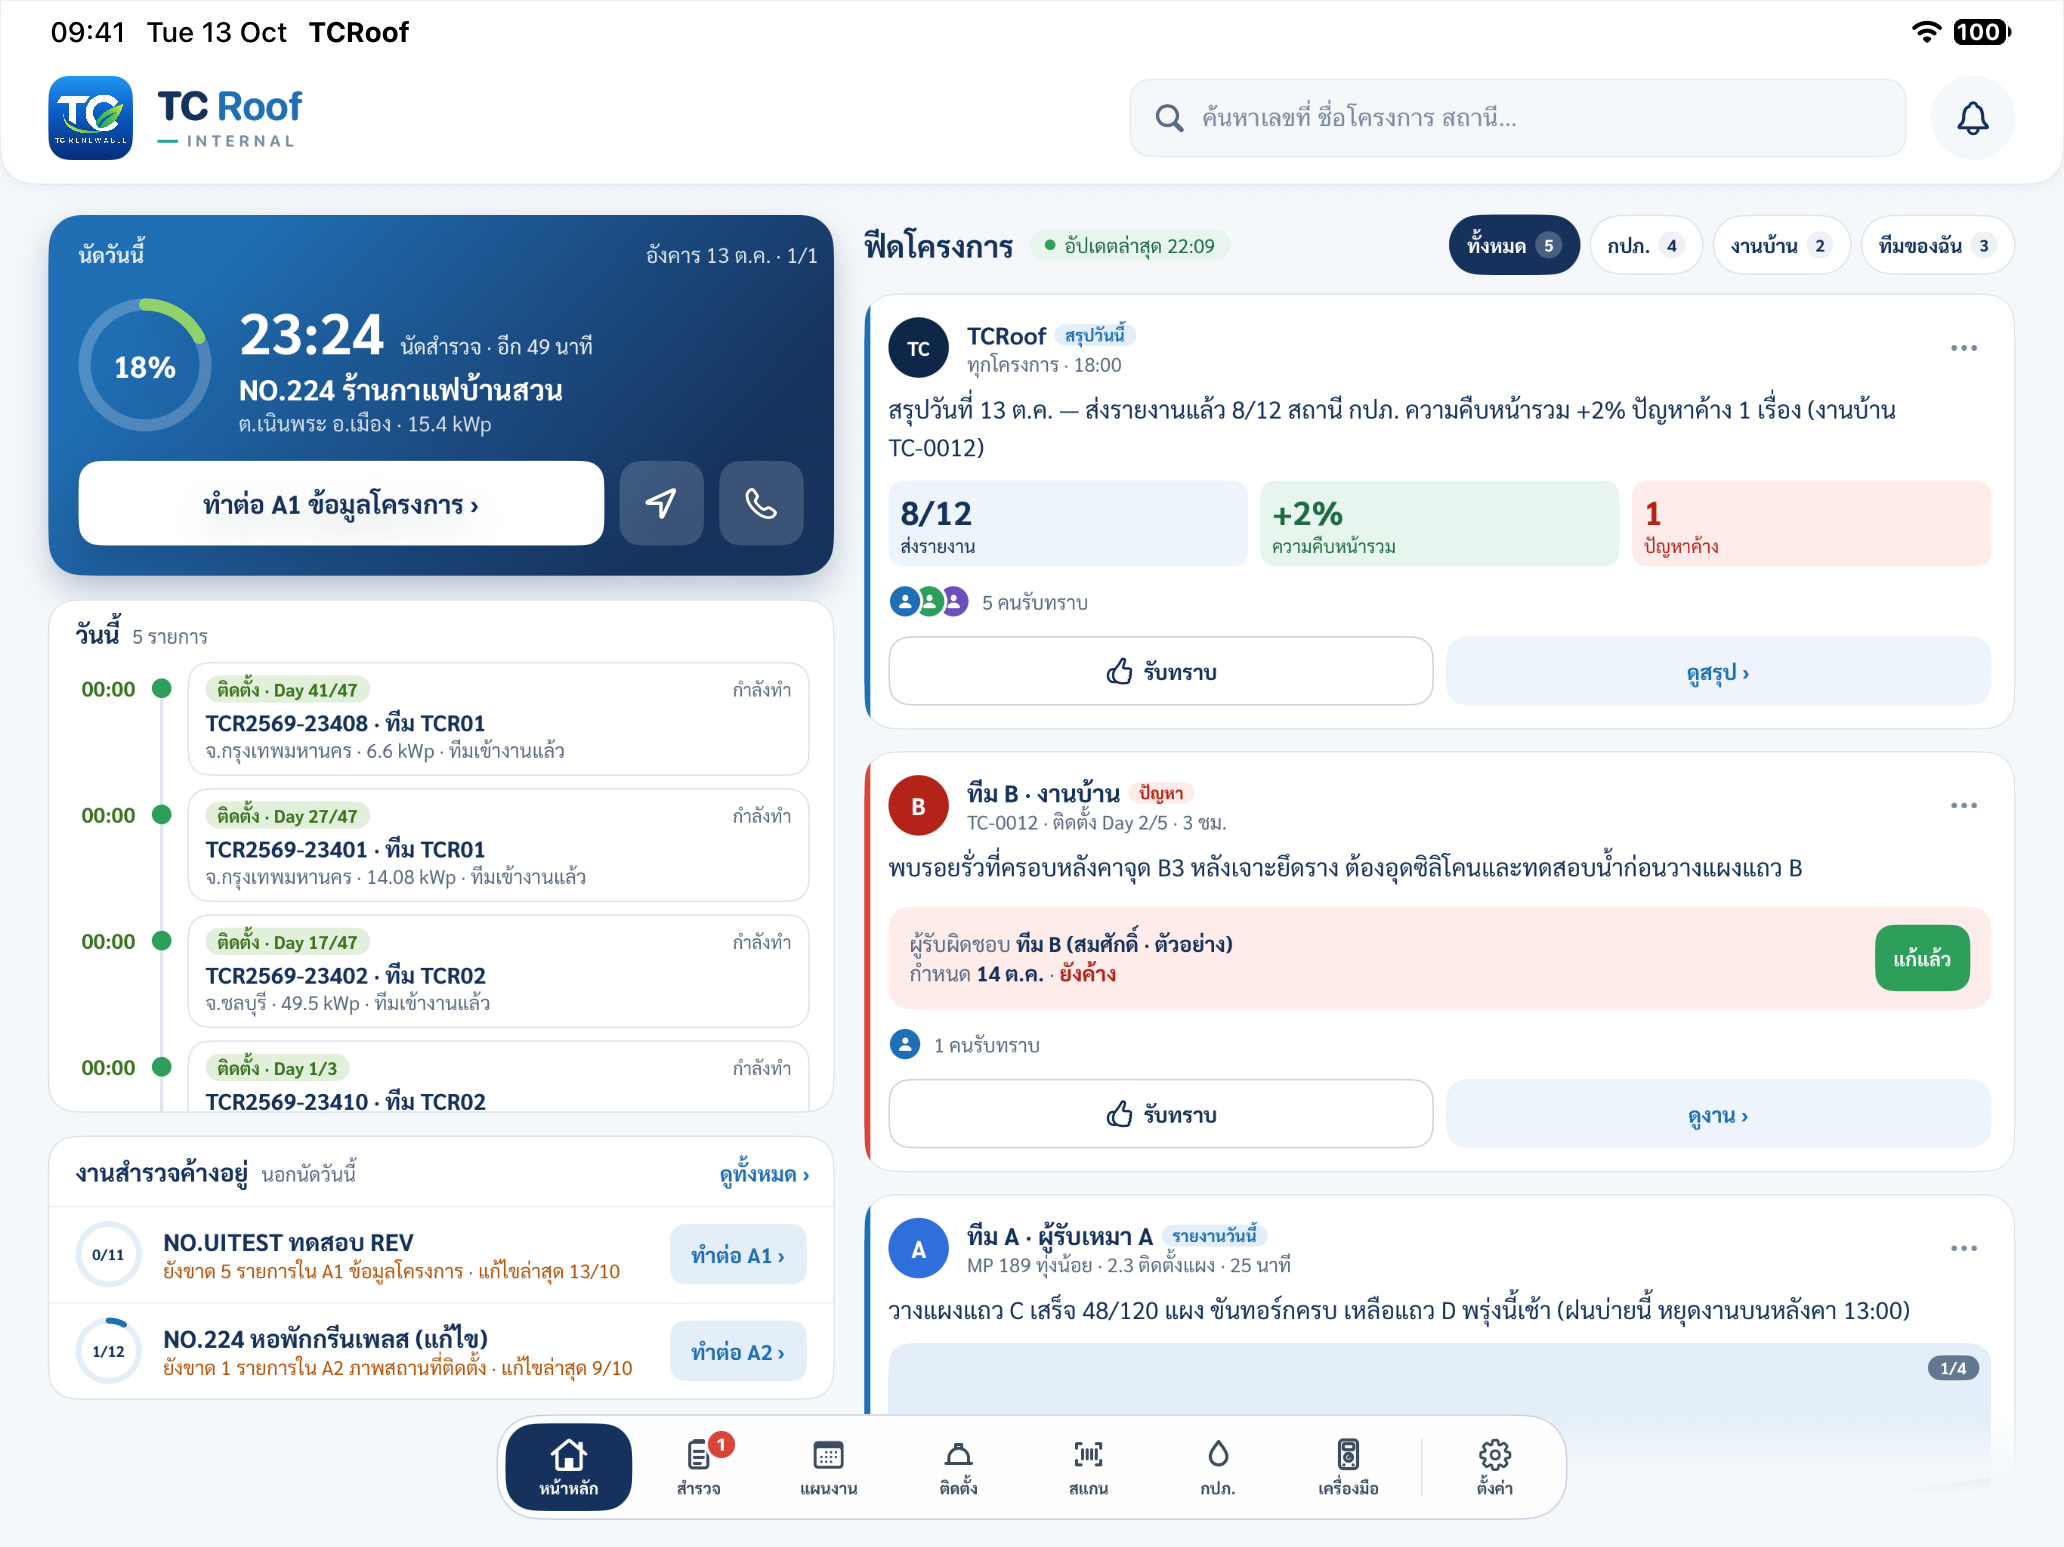
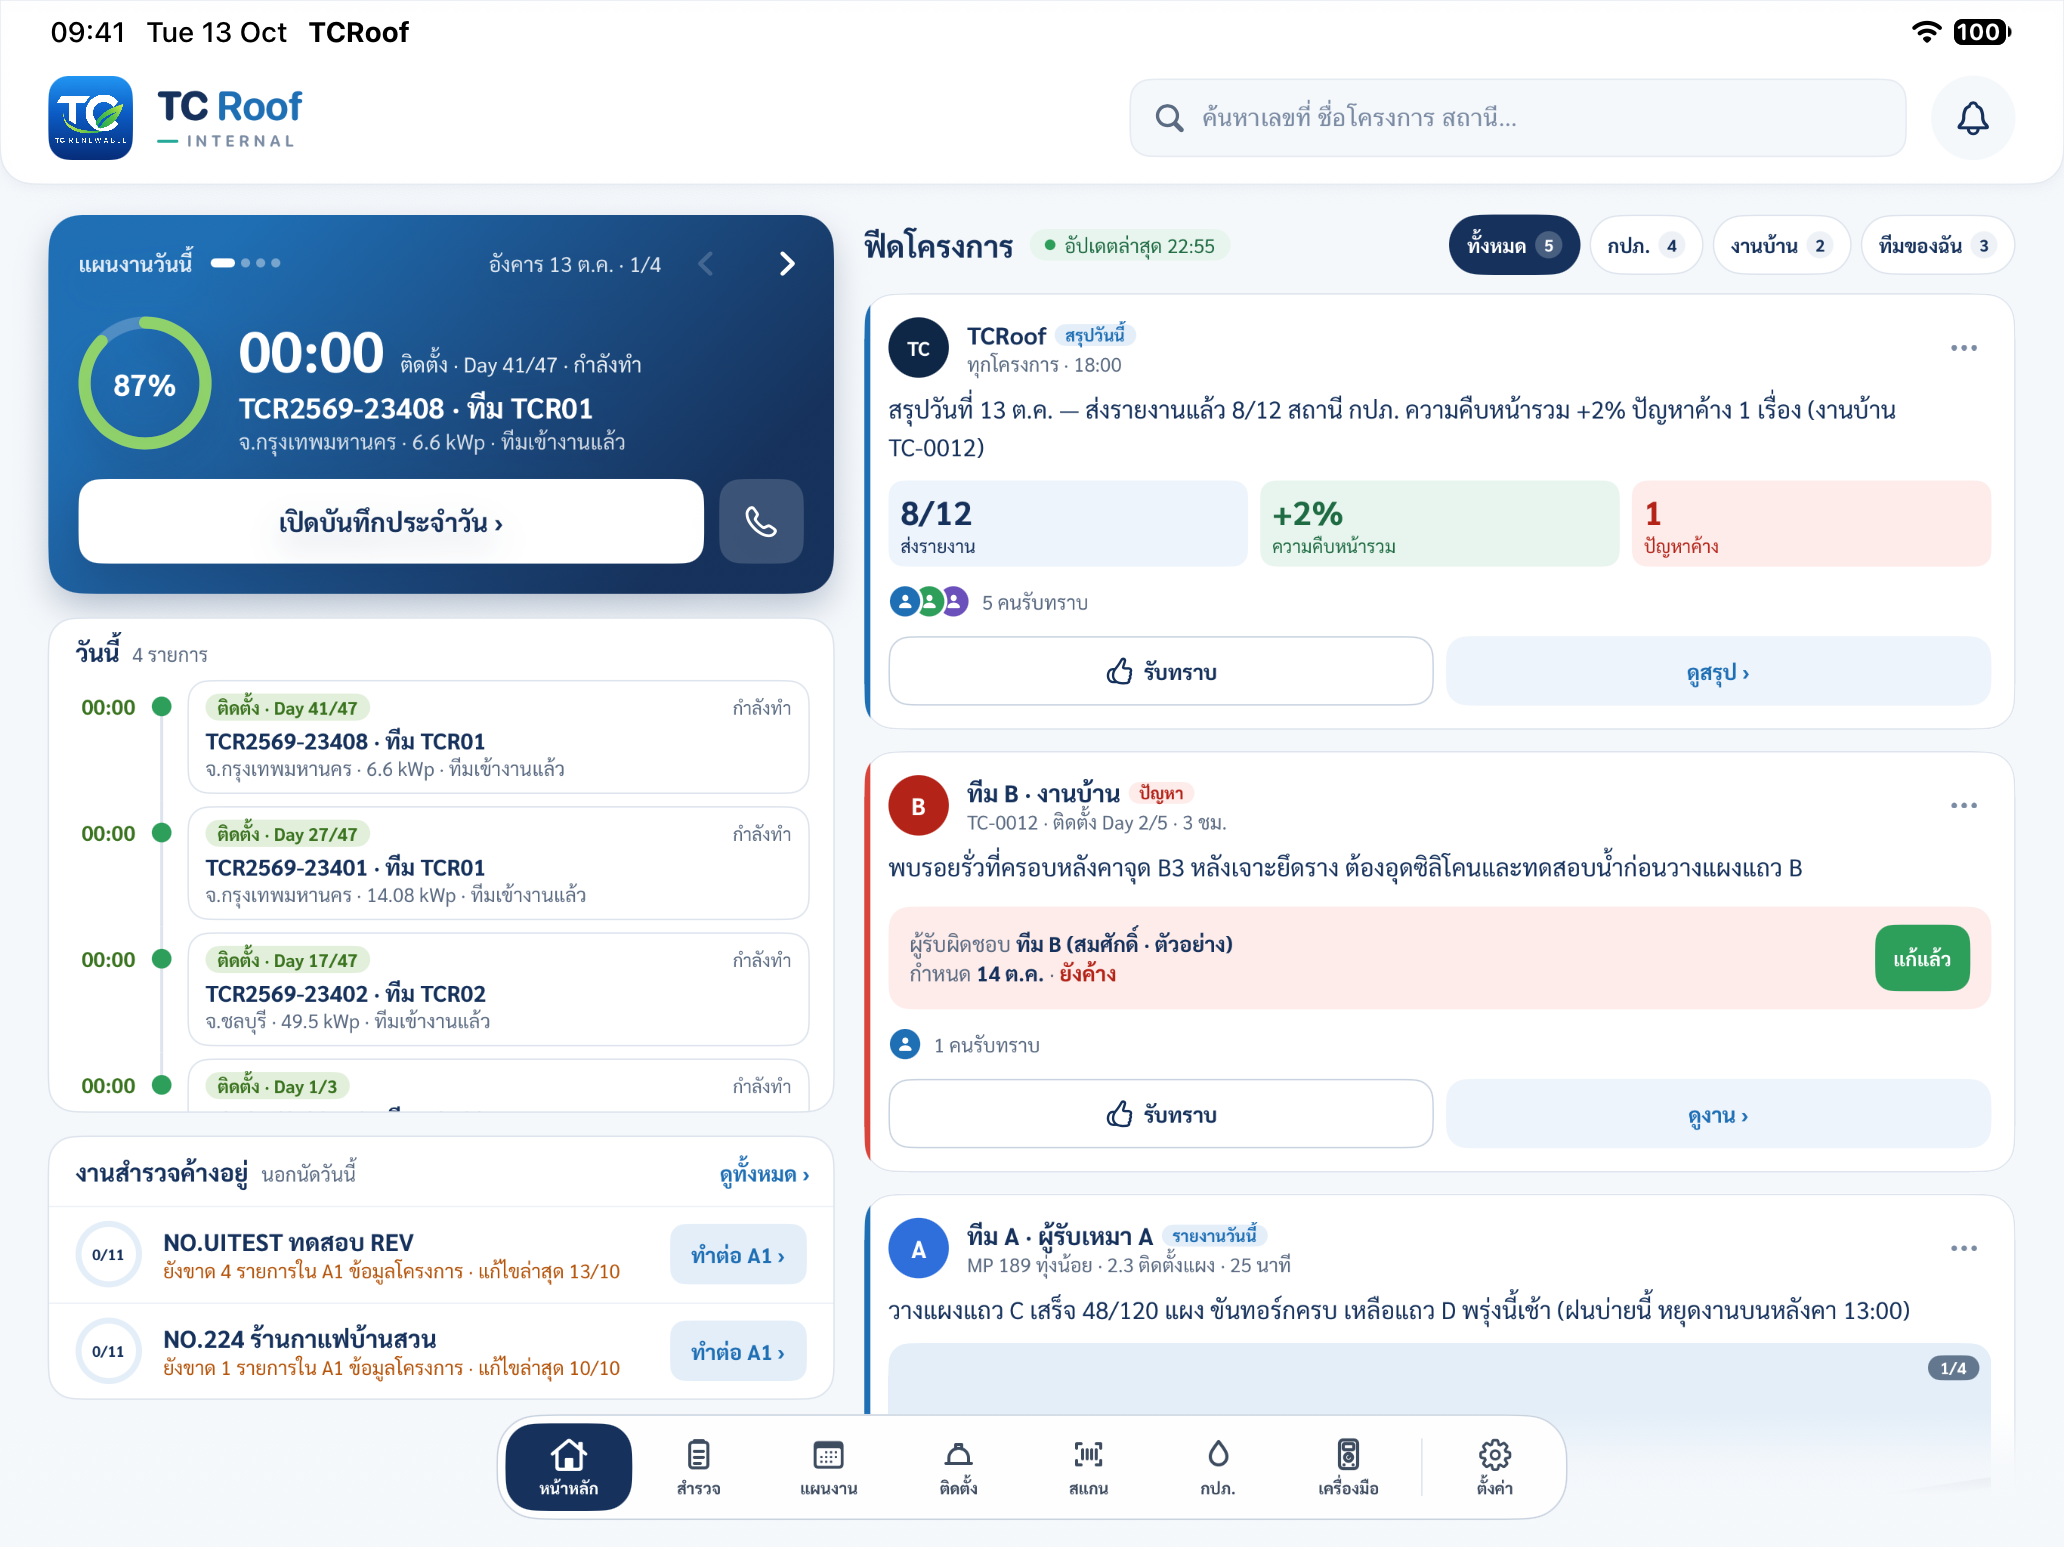
iPad home: the hero is แผนงานวันนี้, today's work still ahead or under way
The iPad hero pages through today's survey appointments still to come and
the install days, the nearest first, in place of the survey appointments
alone. An install page opens the daily log. A row of the วันนี้ card moves
the hero to its page. The iPhone hero is unchanged.

diff --git a/TCRoof/Views/Home/HomeParts.swift b/TCRoof/Views/Home/HomeParts.swift
@@ -279,10 +279,38 @@ struct ModuleRow: View {
 
 // MARK: - Hero
 
-/// `นัดวันนี้`: today's survey appointments as a pager, with ring, primary action, navigate and call.
+/// One page of the hero card: a survey appointment, or on iPad any of today's planned work still ahead or under way.
+struct HeroItem: Identifiable {
+    let id: String
+    let time: String
+    /// `นัดสำรวจ · อีก 49 นาที`, `ติดตั้ง · Day 2/5 · กำลังทำ`
+    let kind: String
+    let name: String
+    let place: String
+    let fraction: Double
+    let percent: Int
+    let actionTitle: String
+    /// The job with its linked report, for navigate and call.
+    let appointment: TodayAppointment
+    /// The primary button.
+    let run: () -> Void
+}
+
+extension TodayAppointment {
+    /// The appointment's page of the hero card; its button opens the report at the next step.
+    func heroItem(open: @escaping (TodayAppointment, MissingGroup.Target?) -> Void) -> HeroItem {
+        HeroItem(id: id, time: time, kind: "นัดสำรวจ · \(countdown)", name: name, place: place, fraction: fraction, percent: percent,
+                 actionTitle: actionTitle, appointment: self) { open(self, nextStep?.page) }
+    }
+}
+
+/// `นัดวันนี้` (iPhone: today's survey appointments) or `แผนงานวันนี้` (iPad: today's work) as a pager, with ring,
+/// primary action, navigate and call.
 struct AppointmentHero: View {
     let size: HomeSize
-    let appointments: [TodayAppointment]
+    var title = "นัดวันนี้"
+    var emptyTitle = "ไม่มีนัดวันนี้"
+    let appointments: [HeroItem]
     @Binding var page: Int
     let open: (TodayAppointment, MissingGroup.Target?) -> Void
     let newSurvey: () -> Void
@@ -290,18 +318,18 @@ struct AppointmentHero: View {
     @State private var calling: TodayAppointment?
     @Environment(\.openURL) private var openURL
 
-    private var current: TodayAppointment? { appointments.indices.contains(page) ? appointments[page] : appointments.first }
+    private var current: HeroItem? { appointments.indices.contains(page) ? appointments[page] : appointments.first }
 
     var body: some View {
         VStack(alignment: .leading, spacing: size.heroGap) {
             topRow
             if let a = current {
-                AppointmentBody(size: size, appointment: a)
+                AppointmentBody(size: size, item: a)
                     .id(a.id)
                     .transition(.opacity)
                 actions(a)
             } else {
-                Text("ไม่มีนัดวันนี้").font(.sarabun(size.isPad ? 21 : 17, .bold, relativeTo: .headline))
+                Text(emptyTitle).font(.sarabun(size.isPad ? 21 : 17, .bold, relativeTo: .headline))
                 Button(action: newSurvey) { primaryLabel("งานสำรวจใหม่ ›") }.buttonStyle(.plain)
             }
         }
@@ -329,7 +357,7 @@ struct AppointmentHero: View {
 
     private var topRow: some View {
         HStack(spacing: size.isPad ? 8 : 6) {
-            Text("นัดวันนี้").font(.sarabun(size.heroLabel, .bold, relativeTo: .caption)).opacity(labelOpacity)
+            Text(title).font(.sarabun(size.heroLabel, .bold, relativeTo: .caption)).opacity(labelOpacity)
             if appointments.count > 1 {
                 HStack(spacing: 4) {
                     ForEach(appointments.indices, id: \.self) { i in
@@ -367,9 +395,10 @@ struct AppointmentHero: View {
         withAnimation(.easeInOut(duration: 0.2)) { page = next }
     }
 
-    private func actions(_ a: TodayAppointment) -> some View {
-        HStack(spacing: size.isPad ? 10 : 8) {
-            Button { open(a, a.nextStep?.page) } label: { primaryLabel(a.actionTitle) }
+    private func actions(_ item: HeroItem) -> some View {
+        let a = item.appointment
+        return HStack(spacing: size.isPad ? 10 : 8) {
+            Button(action: item.run) { primaryLabel(item.actionTitle) }
                 .buttonStyle(.plain)
             if let c = a.coordinate {
                 iconButton("location", label: "นำทาง") { openURL(mapsURL(c)) }
@@ -443,23 +472,23 @@ private struct CallDialog: ViewModifier {
     }
 }
 
-/// Ring, time, countdown, job name and place of one appointment.
+/// Ring, time, countdown, job name and place of one item.
 private struct AppointmentBody: View {
     let size: HomeSize
-    let appointment: TodayAppointment
+    let item: HeroItem
 
     var body: some View {
         HStack(spacing: size.isPad ? 18 : 12) {
-            ProgressRing(size: size, fraction: appointment.fraction, percent: appointment.percent)
+            ProgressRing(size: size, fraction: item.fraction, percent: item.percent)
             VStack(alignment: .leading, spacing: 1) {
                 HStack(alignment: .firstTextBaseline, spacing: size.isPad ? 10 : 8) {
-                    Text(appointment.time).font(.sarabun(size.time, .bold, relativeTo: .title2)).monospacedDigit()
-                    Text("นัดสำรวจ · \(appointment.countdown)").font(.sarabun(size.kind, relativeTo: .caption)).opacity(size.isPad ? 0.9 : 0.95).lineLimit(1)
+                    Text(item.time).font(.sarabun(size.time, .bold, relativeTo: .title2)).monospacedDigit()
+                    Text(item.kind).font(.sarabun(size.kind, relativeTo: .caption)).opacity(size.isPad ? 0.9 : 0.95).lineLimit(1)
                 }
-                Text(appointment.name).font(.sarabun(size.name, .bold, relativeTo: .subheadline)).lineLimit(size.isPad ? 1 : 2)
+                Text(item.name).font(.sarabun(size.name, .bold, relativeTo: .subheadline)).lineLimit(size.isPad ? 1 : 2)
                     .fixedSize(horizontal: false, vertical: true)
-                if !appointment.place.isEmpty {
-                    Text(appointment.place).font(.sarabun(size.place, relativeTo: .caption)).opacity(size.isPad ? 0.8 : 0.92).lineLimit(1)
+                if !item.place.isEmpty {
+                    Text(item.place).font(.sarabun(size.place, relativeTo: .caption)).opacity(size.isPad ? 0.8 : 0.92).lineLimit(1)
                 }
             }
             .frame(maxWidth: .infinity, alignment: .leading)

diff --git a/TCRoof/Views/Home/PadHome.swift b/TCRoof/Views/Home/PadHome.swift
@@ -2,7 +2,7 @@ import SwiftUI
 import TCRoofUI
 import TCRoofCore
 
-/// iPad home (regular width, docs/ui/tcroof-home-ipad and its v2): brand header; `นัดวันนี้`, `วันนี้` and
+/// iPad home (regular width, docs/ui/tcroof-home-ipad and its v2): brand header; `แผนงานวันนี้`, `วันนี้` and
 /// `งานสำรวจค้างอยู่` on the left; the project feed on the right, on one screen, above the floating dock of `PadTabs`.
 /// Under ~1000 pt wide the columns stack in one scroll view.
 struct PadHome<Popover: View>: View {
@@ -88,13 +88,29 @@ struct PadHome<Popover: View>: View {
         .transition(.opacity)
     }
 
-    private var hero: some View {
-        AppointmentHero(size: .pad, appointments: appointments, page: $page, open: open, newSurvey: newSurvey)
+    /// `แผนงานวันนี้`: today's work still to come, the nearest first, then the install days already under way.
+    private var plan: [TimelineItem] {
+        let ahead = timeline.filter { $0.date > .now }
+        return ahead + timeline.filter { $0.isInstall && $0.date <= .now }
     }
 
-    /// A survey row of the timeline moves the hero to its appointment.
+    private var hero: some View {
+        AppointmentHero(size: .pad, title: "แผนงานวันนี้", emptyTitle: "ไม่มีแผนงานวันนี้", appointments: plan.map(heroItem), page: $page,
+                        open: open, newSurvey: newSurvey)
+    }
+
+    private func heroItem(_ item: TimelineItem) -> HeroItem {
+        let a = item.appointment
+        return HeroItem(id: item.id, time: item.time, kind: item.isInstall ? "\(item.tag) · \(item.right)" : "นัดสำรวจ · \(item.right)",
+                        name: item.name, place: item.place, fraction: item.progress, percent: Int((item.progress * 100).rounded()),
+                        actionTitle: item.action, appointment: a) {
+            if item.isInstall { openInstall(a.job) } else { open(a, a.nextStep?.page) }
+        }
+    }
+
+    /// A row of the timeline moves the hero to its page.
     private func select(_ item: TimelineItem) {
-        guard let i = appointments.firstIndex(where: { $0.id == item.appointment.id }) else { return }
+        guard let i = plan.firstIndex(where: { $0.id == item.id }) else { return }
         withAnimation(.easeInOut(duration: 0.2)) { page = i }
     }
 
@@ -229,7 +245,7 @@ private struct TodayTimelineCard: View {
             VStack(spacing: 8) {
                 Button {
                     withAnimation(.easeInOut(duration: 0.2)) { expanded = .some(isOpen ? nil : item.id) }
-                    if !item.isInstall { select(item) }
+                    select(item)
                 } label: { card(item, open: isOpen) }
                 .buttonStyle(.plain)
                 .accessibilityHint(isOpen ? "แตะเพื่อย่อ" : "แตะเพื่อดูการทำงาน")

diff --git a/TCRoof/Views/Home/PhoneHome.swift b/TCRoof/Views/Home/PhoneHome.swift
@@ -28,7 +28,7 @@ struct PhoneHome: View {
             VStack(spacing: 10) {
                 // no appointment today: no card and no empty state, the feed starts under the header
                 if !shown.isEmpty {
-                    AppointmentHero(size: .phone, appointments: shown, page: $page, open: open, newSurvey: {})
+                    AppointmentHero(size: .phone, appointments: shown.map { $0.heroItem(open: open) }, page: $page, open: open, newSurvey: {})
                 }
                 HomeFeed(now: now, todayTeams: Set(appointments.map(\.job.teamRaw)), open: openFeed)
             }
